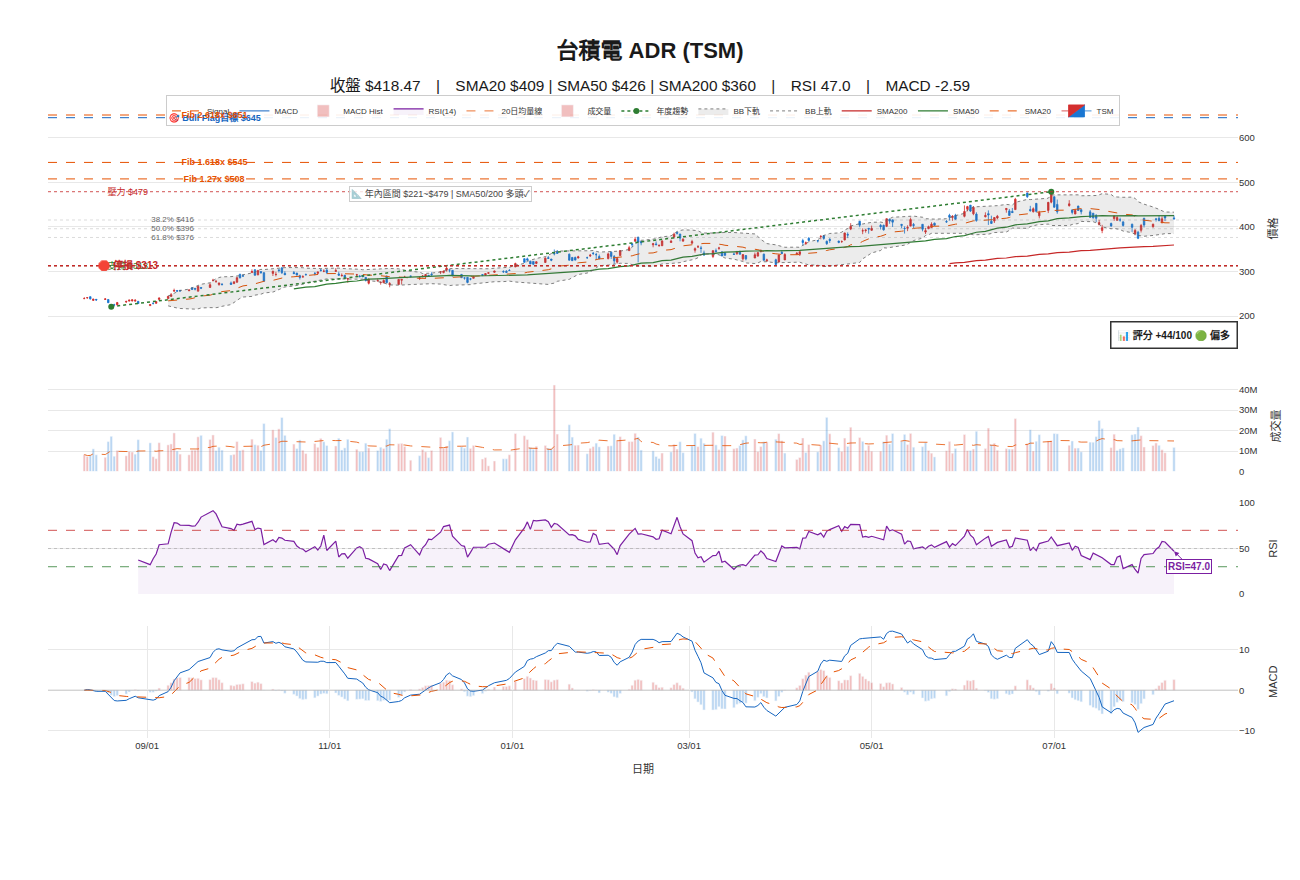
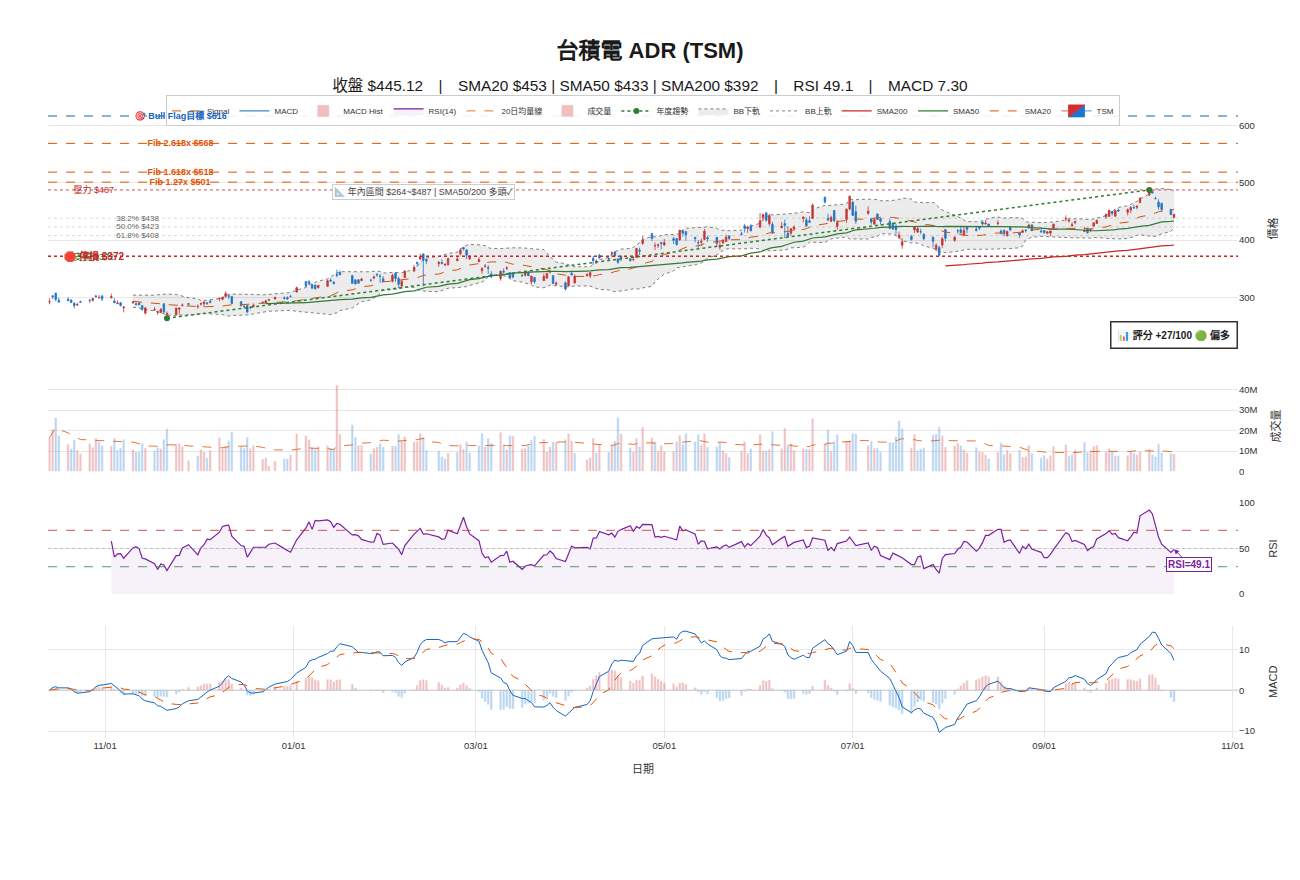
charts: 更新 2026-10-14 技術圖（DJI/SOX/IXIC/TSM/INTC）

diff --git a/charts/index.html b/charts/index.html
@@ -39,27 +39,27 @@ body { font-family:'Noto Sans TC',sans-serif; background:#f5f0e8; color:#1a1714;
   <a href="../">← 回首頁</a>
 </div>
 <div class="container">
-  <div class="date-badge">📅 2026/08/11 更新 — 週二（資料截至 08/10 收盤）</div>
+  <div class="date-badge">📅 2026/10/14 更新 — 週三（資料截至 10/13 週二美股收盤）</div>
   <div class="chart-grid">
     <div class="chart-card">
       <img src="dji.png" alt="道瓊工業指數">
-      <div class="info"><h3>道瓊工業指數 DJI</h3><p>53,975.98 (-0.11%) · RSI 64.3 · 🟡 高檔整理</p></div>
+      <div class="info"><h3>道瓊工業指數 DJI</h3><p>51,670.10 (-0.35%) · RSI 52.4 · 🟢 高檔橫向整理</p></div>
     </div>
     <div class="chart-card">
       <img src="sox.png" alt="費城半導體指數">
-      <div class="info"><h3>費城半導體指數 SOX</h3><p>11,993.86 (-2.94%) · RSI 46.1 · 🟡 短線回檔</p></div>
+      <div class="info"><h3>費城半導體指數 SOX</h3><p>12,208.79 (-0.23%) · RSI 42.6 · 🟢 偏多（跌破 SMA20、守 SMA50）</p></div>
     </div>
     <div class="chart-card">
       <img src="ixic.png" alt="納斯達克指數">
-      <div class="info"><h3>納斯達克指數 IXIC</h3><p>26,605.36 (-0.32%) · RSI 59.1 · 🟢 多頭穩</p></div>
+      <div class="info"><h3>納斯達克指數 IXIC</h3><p>27,204.38 (-0.15%) · RSI 56.9 · 🟢 強勢高檔整理</p></div>
     </div>
     <div class="chart-card">
       <img src="tsm.png" alt="台積電 ADR">
-      <div class="info"><h3>台積電 ADR (TSM)</h3><p>$418.47 (-0.37%) · RSI 47.0 · 🟢 橫盤待變</p></div>
+      <div class="info"><h3>台積電 ADR (TSM)</h3><p>$445.12 (+0.17%) · RSI 49.1 · 🟢 上升趨勢回檔整理</p></div>
     </div>
     <div class="chart-card">
       <img src="intc.png" alt="Intel">
-      <div class="info"><h3>Intel (INTC)</h3><p>$97.52 (-4.06%) · RSI 42.3 · 🔴 短線弱勢</p></div>
+      <div class="info"><h3>Intel (INTC)</h3><p>$102.81 (+1.44%) · RSI 26.5 · 🟡 超賣反彈（RSI 落入超賣區）</p></div>
     </div>
     <div class="chart-card" style="cursor:pointer;" onclick="location.href='taiex-technical.html'">
       <div style="height:160px;background:linear-gradient(135deg,#1a1a2e,#16213e);display:flex;align-items:center;justify-content:center;">
